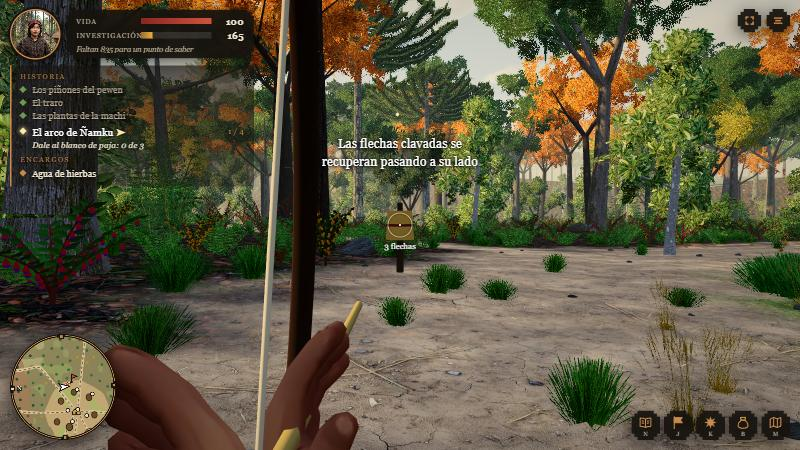
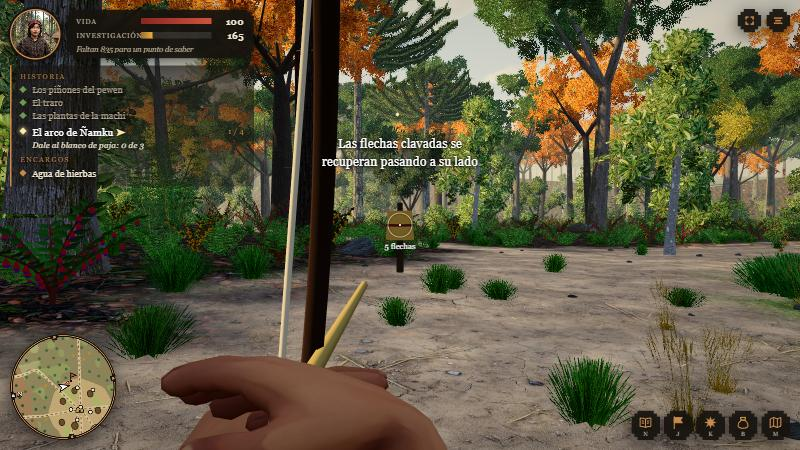
Arco: el botón izquierdo tensa siempre que se mantiene, y las manos agarran
- En partidas guardadas antes de que el arco se pudiera guardar, viene ya en la mano; si está guardado, el botón derecho avisa cómo sacarlo.
- Si el botón izquierdo se aprieta mientras la mano busca otra flecha, el arco empieza a tensarse apenas puede. Un toque corto suelta una flecha floja.
- Las manos se giran para agarrar: la izquierda cubre la empuñadura y la derecha toma la flecha. El arco va en la palma.
- Subir y bajar el arco pasa de a poco de la postura de llevarlo a la de apuntar.

Changed region(s): [[0.0, 0.0, 0.5625, 1.0]]

diff --git a/src/main.js b/src/main.js
@@ -200,10 +200,10 @@ function lock() { /* ya no se captura el ratón */ }
 const locked = () => false;
 document.body.classList.add('sin-raton'); // deja a la vista la ayuda de cómo girar, hasta que se arrastra por primera vez
 renderer.domElement.addEventListener('mousedown', (e) => { if (state !== 'play') return; dragging = true; document.body.classList.add('girando'); e.preventDefault();
-  if (e.button === 2) { botonDer = true; if (puedeApuntar() && acc.apuntar(true)) captura(); } // el botón derecho apunta
+  if (e.button === 2) { botonDer = true; if (puedeApuntar() && acc.apuntar(true)) captura(); else if (acc.tieneArco && !acc.equipado) hint(`Tienes el arco guardado. Sácalo con ${keyName(opts.keys.arma)} o desde la bolsa.`, 4); } // el botón derecho apunta
   else if (e.button === 0 && acc.equipado && puedeApuntar()) { if (!acc.apunta && acc.apuntar(true)) captura(); salirAp = 0; acc.tensar(true); } }); // el izquierdo, mientras se mantiene, tensa el arco
 renderer.domElement.addEventListener('contextmenu', (e) => e.preventDefault());
-addEventListener('mouseup', (e) => { if (e.button === 0 && acc.apunta) { dispara(); if (!botonDer) salirAp = 0.5; } if (e.button === 2) { botonDer = false; if (acc.tira) salirAp = 0.01; else dejaDeApuntar(); } if (!e.buttons) { dragging = false; document.body.classList.remove('girando'); } });
+addEventListener('mouseup', (e) => { if (e.button === 0) { if (acc.apunta) { dispara(); if (!botonDer) salirAp = 0.5; } acc.tensar(false); } if (e.button === 2) { botonDer = false; if (acc.tira) salirAp = 0.01; else dejaDeApuntar(); } if (!e.buttons) { dragging = false; document.body.classList.remove('girando'); } });
 // ---------- el arco: apuntar y soltar ----------
 // Con el botón derecho apretado Leftraru tensa el arco, la cámara se le pone al hombro y aparece la mira. El ratón queda
 // capturado mientras tanto, para poder girar sin que el puntero se salga de la ventana.
@@ -607,7 +607,7 @@ function updateCamera(dt) {
   // Apuntando con el arco: la cámara se pone sobre el hombro derecho, el que lleva la cuerda atrás, bien cerca (como al
   // levantar un arma en un juego de disparos), y cierra un poco el lente. De tan cerca, el arco se ve adelante, a la izquierda. La mira del centro
   // de la pantalla marca hacia dónde va la flecha.
-  apK = Math.max(0, Math.min(1, apK + (acc.apunta ? dt / 0.22 : -dt / 0.3))); let lente = fov;
+  apK = Math.max(0, Math.min(1, apK + (acc.apunta ? dt / 0.2 : -dt / 0.24))); let lente = fov;
   if (!acc.apunta && cam.pitch < -0.25) cam.pitch += (-0.25 - cam.pitch) * Math.min(1, dt * 6); // al soltar, la cámara vuelve a su altura de siempre
   if (apK > 0) { const ka = ease(apK), t = pp(), cp = Math.cos(cam.pitch), dx = Math.sin(cam.yaw) * cp, dy = Math.sin(cam.pitch), dz = Math.cos(cam.yaw) * cp, rx = Math.cos(cam.yaw), rz = -Math.sin(cam.yaw);
     const ap = V3(t.x + rx * CAM_ARCO[0] + dx * CAM_ARCO[2], t.y + CAM_ARCO[1] + dy * CAM_ARCO[2], t.z + rz * CAM_ARCO[0] + dz * CAM_ARCO[2]); ap.y = Math.max(ap.y, height(ap.x, ap.z) + 0.3);
@@ -810,7 +810,7 @@ if (!ANTIGUO) import('three/examples/jsm/loaders/GLTFLoader.js').then(({ GLTFLoa
   const arcoN = new THREE.Mesh(new THREE.TorusGeometry(0.6, 0.011, 5, 18, Math.PI * 0.5).rotateZ(-Math.PI * 0.25).rotateY(-Math.PI / 2).translate(0, 0, -0.6), new THREE.MeshStandardMaterial({ color: 0x4a3626, roughness: 1 })); arcoN.visible = false; arcoN.castShadow = true; arcoN.rotation.order = 'YXZ'; scene.add(arcoN); boy.sinArco = true;
   const puesta = new THREE.Mesh(new THREE.CylinderGeometry(0.008, 0.008, 0.72, 5).rotateX(Math.PI / 2), new THREE.MeshStandardMaterial({ color: 0xb49a62, roughness: 1 })); puesta.visible = false; scene.add(puesta); // la flecha puesta en el arco, antes de soltarla
   const cuerda = new THREE.Group(), hilo = new THREE.CylinderGeometry(0.0022, 0.0022, 1, 4).rotateX(Math.PI / 2).translate(0, 0, 0.5), hiloM = new THREE.MeshStandardMaterial({ color: 0xd8cfb8, roughness: 1 }); cuerda.add(new THREE.Mesh(hilo, hiloM), new THREE.Mesh(hilo, hiloM)); cuerda.visible = false; scene.add(cuerda); // la cuerda: de una punta del arco a la otra, pasando por donde la lleva la mano
-  cuerpo = { mixer, acciones, H, m, y0: m.position.y, peso: { anda: 0, quieto: 0, corre: 0 }, aire: 0, sienta: 0, atento: 0, junta: 0, tapa: 0, pie: [0, 0], parp: 2, habla: 0, ojos, boca, bocaAlto, arco: arcoN, puesta, cuerda }; window.__g.modelo = m; window.__g.cuerpo = cuerpo;
+  cuerpo = { mixer, acciones, H, m, y0: m.position.y, peso: { anda: 0, quieto: 0, corre: 0 }, aire: 0, sienta: 0, atento: 0, junta: 0, tapa: 0, pie: [0, 0], parp: 2, habla: 0, ojos, boca, bocaAlto, arco: arcoN, puesta, cuerda, palma: { Left: palmaDe(m, H.LeftHand), Right: palmaDe(m, H.RightHand) } }; window.__g.modelo = m; window.__g.cuerpo = cuerpo;
 }, undefined, () => { for (const c of viejo) c.visible = true; }));
 // ---------- la gente de la aldea en 3D ----------
 // Quien tiene modelo 3D lo lleva encima de su cuerpo de siempre, que queda invisible y sigue decidiendo todo: dónde está, qué
@@ -941,25 +941,49 @@ function cuerdaPor(C, p) { // la cuerda pasa por p (o va derecha de punta a punt
   C.arco.updateMatrixWorld(true); const a = C.arco.localToWorld(PA.set(0, TIP, -PANZA)), b = C.arco.localToWorld(PB.set(0, -TIP, -PANZA)), m = p || PC.copy(a).lerp(b, 0.5);
   [a, b].forEach((q, i) => { const t = C.cuerda.children[i]; t.position.copy(q); t.lookAt(m); t.scale.z = q.distanceTo(m); });
 }
+// Las manos de los modelos no tienen dedos que se muevan: son planas, abiertas. Para que parezca que agarran, se las gira:
+// los dedos hacia un lado y la palma hacia otro. palmaDe averigua, una vez, hacia dónde mira la palma en cada mano.
+function palmaDe(m, hueso) { // las manos vienen medio cerradas: la palma mira hacia donde se curvan los dedos (la punta de la mano, respecto de su base)
+  let sk = null; m.traverse((o) => { if (o.isSkinnedMesh && !sk) sk = o; }); const bi = sk && hueso ? sk.skeleton.bones.indexOf(hueso) : -1; if (bi < 0) return V3(0, 0, 1);
+  const P = sk.geometry.attributes.position, I = sk.geometry.attributes.skinIndex, W = sk.geometry.attributes.skinWeight, inv = sk.skeleton.boneInverses[bi], v = V3(), pts = []; let largo = 0;
+  for (let i = 0; i < P.count; i++) { let w = 0; for (let c = 0; c < 4; c++) if (I.getComponent(i, c) === bi) w += W.getComponent(i, c); if (w < 0.6) continue; v.fromBufferAttribute(P, i).applyMatrix4(sk.bindMatrix).applyMatrix4(inv); pts.push(v.x, v.y, v.z); largo = Math.max(largo, v.y); }
+  const punta = [0, 0, 0], base = [0, 0, 0]; for (let i = 0; i < pts.length; i += 3) { const q = pts[i + 1] > largo * 0.7 ? punta : pts[i + 1] < largo * 0.38 ? base : null; if (q) { q[0] += pts[i]; q[1] += pts[i + 2]; q[2]++; } }
+  if (!punta[2] || !base[2]) return V3(0, 0, 1); const nl = V3(punta[0] / punta[2] - base[0] / base[2], 0, punta[1] / punta[2] - base[1] / base[2]); return nl.lengthSq() > 1e-6 ? nl.normalize() : V3(0, 0, 1);
+}
+const MB = new THREE.Matrix4(), MC = new THREE.Matrix4(), VX = V3(), VY = V3(), VZ = V3(), EU = new THREE.Euler(0, 0, 0, 'YXZ'), QG = new THREE.Quaternion(), PBW = V3(), VAD = V3(), VDE = V3(), VAR = V3();
+function orientaMano(hueso, nl, dedos, palma, k) { // gira la mano para que los dedos vayan hacia «dedos» y la palma mire hacia «palma» (direcciones del mundo); k: cuánto
+  if (!hueso || k <= 0) return; const F = VY.copy(dedos).normalize(), Pm = VZ.copy(palma).addScaledVector(F, -palma.dot(F)).normalize(), X = VX.crossVectors(F, Pm);
+  MB.makeBasis(X, F, Pm); MC.makeBasis(PE.set(0, 1, 0).cross(nl).normalize(), PF.set(0, 1, 0), nl).transpose(); MB.multiply(MC); // de la mano al mundo
+  QR.setFromRotationMatrix(MB); hueso.parent.updateWorldMatrix(true, false); QB.copy(hueso.parent.getWorldQuaternion(QA)).invert().multiply(QR); hueso.quaternion.slerp(QB, Math.min(1, k)); hueso.updateMatrixWorld(true);
+}
 function armaArco(dt, f, h) {
-  const C = cuerpo, H = C.H, eq = acc.equipado && boy.g.visible && state !== 'title', ap = eq && acc.apunta && apK > 0.2;
-  C.arco.visible = C.cuerda.visible = eq; C.puesta.visible = false; H.Head.scale.setScalar(apK > 0.2 ? 0.001 : 1); // apuntando, la cámara va donde están sus ojos: la cabeza no se dibuja
+  const C = cuerpo, H = C.H, eq = acc.equipado && boy.g.visible && state !== 'title', ka = eq ? suave(0.12, 1, apK) : 0; // ka: cuánto están las manos en la postura de apuntar (entra y sale de a poco)
+  C.arco.visible = C.cuerda.visible = eq; C.puesta.visible = false; H.Head.scale.setScalar(apK > 0.05 ? 0.001 : 1); // apuntando, la cámara va donde están sus ojos: la cabeza no se dibuja
   if (!eq) return;
-  if (!ap) { // en la mano, al costado: el brazo izquierdo no se balancea, lleva el arco
-    if (!(h && h.tipo === 'labrar') && !acc.sitting && !rueda) { const fx = Math.sin(f), fz = Math.cos(f); apunta(H.LeftArm, fx * 0.2 + fz * 0.16, -0.95, fz * 0.2 - fx * 0.16, 0.9); apunta(H.LeftForeArm, fx * 0.62 + fz * 0.04, -0.78, fz * 0.62 - fx * 0.04, 0.9); }
-    H.LeftHand.getWorldPosition(C.arco.position); C.arco.rotation.set(1.0, f, 0); C.arco.scale.set(1, 1, 1); cuerdaPor(C, null); return; }
+  const fx = Math.sin(f), fz = Math.cos(f);
+  if (ka < 1 && !(h && h.tipo === 'labrar') && !acc.sitting && !rueda) { apunta(H.LeftArm, fx * 0.2 + fz * 0.16, -0.95, fz * 0.2 - fx * 0.16, 0.9 * (1 - ka)); apunta(H.LeftForeArm, fx * 0.62 + fz * 0.04, -0.78, fz * 0.62 - fx * 0.04, 0.9 * (1 - ka)); } // en la mano, al costado: el brazo izquierdo no se balancea, lleva el arco
+  C.m.updateMatrixWorld(true);
+  if (ka <= 0) { H.LeftHand.getWorldPosition(C.arco.position).addScaledVector(VA.set(0, 1, 0).applyQuaternion(H.LeftHand.getWorldQuaternion(QD)), 0.07); C.arco.rotation.set(1.0, f, 0); C.arco.scale.set(1, 1, 1); cuerdaPor(C, null); return; } // el arco va en la palma, no en la muñeca
   // apuntando: todo se mide desde los ojos (donde está la cámara) y hacia donde apunta la mira
   const cp = Math.cos(cam.pitch), ax = -Math.sin(cam.yaw) * cp, ay = -Math.sin(cam.pitch), az = -Math.cos(cam.yaw) * cp, rx = Math.cos(cam.yaw), rz = -Math.sin(cam.yaw), ux = -rz * ay, uy = rz * ax - rx * az, uz = rx * ay; // adelante, a la derecha y arriba
   const t = pp(), ex = t.x + rx * CAM_ARCO[0] - ax * CAM_ARCO[2], ey = t.y + CAM_ARCO[1] - ay * CAM_ARCO[2], ez = t.z + rz * CAM_ARCO[0] - az * CAM_ARCO[2]; // los ojos
   const en = (ad, de, ar, o) => o.set(ex + ax * ad + rx * de + ux * ar, ey + ay * ad + uy * ar, ez + az * ad + rz * de + uz * ar); // un punto a tanto adelante, a la derecha y arriba de los ojos
-  const c = suave(0, 1, acc.tensa), rec = acc.recarga, hay = acc.ctx().tengo('flecha') > 0, puestaYa = hay && !acc.vuela && rec < 0.45;
-  C.m.updateMatrixWorld(true);
-  ikBrazo(H.LeftArm, H.LeftForeArm, H.LeftHand, en(0.4, -0.11, -0.235 + retro * 0.03, PW), VA.set(-rx * 0.5, -0.8, -rz * 0.5), 1); // la mano del arco, adelante y a la izquierda
-  en(0.46, -0.105, -0.215 + retro * 0.03, C.arco.position); C.arco.rotation.set(cam.pitch, cam.yaw + Math.PI, 0.1); C.arco.scale.set(1, 1 - 0.06 * c, 1 + 0.5 * c); // al tensarlo, las puntas se vienen hacia atrás
-  const D = PANZA + (0.42 - PANZA) * c; en(0.46 - D, -0.085, -0.165 + retro * 0.03, PN); // dónde va la cuerda con la flecha
+  const c = suave(0, 1, acc.tensa), rec = acc.recarga, hay = acc.ctx().tengo('flecha') > 0, puestaYa = ka > 0.7 && hay && !acc.vuela && rec < 0.45, sube = retro * 0.03;
+  VAD.set(ax, ay, az); VDE.set(rx, 0, rz); VAR.set(ux, uy, uz);
+  // la mano izquierda agarra el arco: la muñeca queda a la izquierda de la empuñadura y los dedos la cruzan por delante, así que
+  // desde los ojos se ve el dorso de la mano tapando la empuñadura
+  en(0.435, -0.165, -0.18 + sube, PW); ikBrazo(H.LeftArm, H.LeftForeArm, H.LeftHand, PW, VA.set(-rx * 0.5, -0.8, -rz * 0.5), ka);
+  orientaMano(H.LeftHand, C.palma.Left, VA.copy(VDE).addScaledVector(VAR, 0.3).addScaledVector(VAD, 0.15), VAD, ka);
+  en(0.47, -0.09, -0.17 + sube, PBW); EU.set(cam.pitch, cam.yaw + Math.PI, 0.1); QG.setFromEuler(EU);
+  if (ka < 1) { H.LeftHand.getWorldPosition(C.arco.position).addScaledVector(VA.set(0, 1, 0).applyQuaternion(H.LeftHand.getWorldQuaternion(QD)), 0.07).lerp(PBW, ka); EU.set(1.0, f, 0); C.arco.quaternion.setFromEuler(EU).slerp(QG, ka); } // mientras sube o baja el arco, va de la postura de llevarlo a la de apuntar
+  else { C.arco.position.copy(PBW); C.arco.quaternion.copy(QG); }
+  C.arco.scale.set(1, 1 - 0.06 * c, 1 + 0.5 * c); // al tensarlo, las puntas se vienen hacia atrás
+  const D = PANZA + (0.42 - PANZA) * c; en(0.47 - D, -0.075, -0.125 + sube, PN); // dónde va la cuerda con la flecha
   const baja = suave(0.35, 1, rec); // después de soltar, la mano derecha baja a buscar otra flecha y vuelve a la cuerda
-  en(0.46 - D - 0.05 - baja * 0.1, -0.06 + baja * 0.3, -0.19 - baja * 0.35, PW); ikBrazo(H.RightArm, H.RightForeArm, H.RightHand, PW, VA.set(rx * 0.55 - ax * 0.3, -0.6, rz * 0.55 - az * 0.3), 1);
-  cuerdaPor(C, puestaYa || acc.tira ? PN : null);
+  // la mano derecha toma la cuerda: la muñeca a la derecha, los dedos hacia la cuerda
+  en(0.47 - D - 0.01 - baja * 0.1, 0.0 + baja * 0.3, -0.118 - baja * 0.35, PW); ikBrazo(H.RightArm, H.RightForeArm, H.RightHand, PW, VA.set(rx * 0.55 - ax * 0.3, -0.6, rz * 0.55 - az * 0.3), ka);
+  orientaMano(H.RightHand, C.palma.Right, VA.copy(VDE).negate().addScaledVector(VAD, 0.25).addScaledVector(VAR, 0.1), VAD, ka);
+  cuerdaPor(C, puestaYa || (acc.tira && ka > 0.7) ? PN : null);
   if (puestaYa) { C.puesta.visible = true; C.puesta.position.set(PN.x + ax * 0.36, PN.y + ay * 0.36, PN.z + az * 0.36); C.puesta.lookAt(PN.x + ax * 2, PN.y + ay * 2, PN.z + az * 2); }
 }
 // La gente en 3D, cuadro a cuadro: después de que su cuerpo de siempre tomó la postura de este momento, el modelo la copia.

diff --git a/src/acciones.js b/src/acciones.js
@@ -269,7 +269,8 @@ export function createActions({ world, ui, snd, scene, hint, speak, murmur, ripp
     if ((S.vida ?? 100) >= 100) { hint('Ahora no te hace falta: guárdala para cuando la necesites.', 4); return false; }
     take('remedio', 1); sanar(60); snd.play('paso-agua-2', 0.4); hint('Tibia y amarga. El cuerpo se te afirma de a poco.', 5); return true;
   }
-  ui.cosas = COSAS; ui.recetas = recetas; ui.preparar = preparar; ui.usar = usar; COSAS.arco.usar = S.eq ? 'Guardar' : 'Equipar';
+  ui.cosas = COSAS; ui.recetas = recetas; ui.preparar = preparar; ui.usar = usar; if (S.eq === undefined && f.cz >= 2 && have('arco') > 0) S.eq = true; // una partida guardada antes de que el arco se pudiera guardar: lo trae en la mano
+  COSAS.arco.usar = S.eq ? 'Guardar' : 'Equipar';
 
   // ---------- plumas: al pie de los árboles donde se posan las aves ----------
   const plumas = [];
@@ -293,9 +294,9 @@ export function createActions({ world, ui, snd, scene, hint, speak, murmur, ripp
   const flechaG = new THREE.CylinderGeometry(0.009, 0.009, 0.72, 5), flechaMat = new THREE.MeshStandardMaterial({ color: 0x9a8458, roughness: 1 });
   const flechaM = new THREE.Mesh(flechaG, flechaMat); flechaM.visible = false; flechaM.castShadow = true; scene.add(flechaM); // la que va volando
   const N_CLAV = 8, clavM = new THREE.InstancedMesh(flechaG, flechaMat, N_CLAV), clav = [], clavO = new THREE.Object3D(); clavM.count = 0; clavM.castShadow = true; clavM.frustumCulled = false; scene.add(clavM); // las que quedaron clavadas: una sola malla
-  const UP = new THREE.Vector3(0, 1, 0), VF = new THREE.Vector3(), P0 = new THREE.Vector3(), TENSA = 0.75, GRAV = 9.8, V_MIN = 15, V_MAX = 58, CARGA = 1.05, RECARGA = 0.55, TOPE_FL = 12, giro = (d) => Math.atan2(Math.sin(d), Math.cos(d));
+  const UP = new THREE.Vector3(0, 1, 0), VF = new THREE.Vector3(), P0 = new THREE.Vector3(), TENSA = 0.75, GRAV = 9.8, V_MIN = 15, V_MAX = 58, CARGA = 1.0, RECARGA = 0.4, TOPE_FL = 12, giro = (d) => Math.atan2(Math.sin(d), Math.cos(d));
   const TACTIL = typeof matchMedia === 'function' && matchMedia('(hover: none)').matches; // sin ratón, la flecha se tira con la tecla de acción y apunta sola
-  const punt = { on: false, t: 0, carga: 0, tira: false, pausa: 0 }; let vuelo = null; // punt: está apuntando, y cuánto lleva tensando; vuelo: la flecha en el aire { p, v, de, t }
+  const punt = { on: false, t: 0, carga: 0, tira: false, quiere: false, pausa: 0 }; let vuelo = null; // quiere: el botón de tensar sigue apretado; tira: está tensando // punt: está apuntando, y cuánto lleva tensando; vuelo: la flecha en el aire { p, v, de, t }
   const puduCerca = (p, r) => { let b = null; for (const q of world.life.quads) { if (q.kind !== 'pudu' || q.caido || q.fuera || (q.g.scale.x || 1) < 0.8) continue; const d = d2(p, q.x, q.z); if (d < r && (!b || d < b.d)) b = { d, q }; } return b; }; // los grandes: a las crías no se les tira
   const hayCaido = () => world.life.quads.some((q) => q.caido && !q.fuera);
   const pintaClav = () => { clavM.count = clav.length; clav.forEach((c, i) => { clavO.position.copy(c.p); clavO.quaternion.copy(c.q); clavO.updateMatrix(); clavM.setMatrixAt(i, clavO.matrix); }); clavM.instanceMatrix.needsUpdate = true; };
@@ -304,7 +305,7 @@ export function createActions({ world, ui, snd, scene, hint, speak, murmur, ripp
   function apuntar(si) {
     if (si && !puedeApuntar()) return false;
     if (si && !punt.on) { punt.t = 0; if (f.cz === 3 && !hayCaido() && puduCerca(here, 22)) hint('«Dueño de este monte: es para mi gente.»', 3); }
-    punt.on = !!si; if (!punt.on) { punt.carga = 0; punt.tira = false; } return punt.on;
+    punt.on = !!si; if (!punt.on) { punt.carga = 0; punt.tira = false; punt.quiere = false; } return punt.on;
   }
   // El arco se saca y se guarda (desde la bolsa o con su tecla). Solo con el arco en la mano se puede apuntar.
   function equipar(si) {
@@ -313,11 +314,11 @@ export function createActions({ world, ui, snd, scene, hint, speak, murmur, ripp
     snd.play('ui-clic', 0.4, S.eq ? 1.1 : 0.8); hint(S.eq ? `Arco en la mano. Botón derecho para apuntar; mantén el izquierdo para tensar y suéltalo para tirar. ${tecla('flecha')} hace una flecha.` : 'Guardaste el arco.', S.eq ? 7 : 3); return true;
   }
   // Tensar: mientras se mantiene apretado el botón, el arco se va cargando; al soltarlo, sale la flecha con esa fuerza.
-  function tensar(si) {
-    if (!si) { punt.tira = false; return false; }
-    if (!punt.on || vuelo || punt.pausa > 0) return false;
-    if (!have('flecha')) { hint(clav.length ? 'No te quedan flechas en la bolsa. Recoge las que quedaron clavadas.' : `No te quedan flechas. Con una caña de quila y una pluma haces otra: pulsa ${tecla('flecha')}.`, 6); return false; }
-    punt.tira = true; return true;
+  const empiezaATensar = () => { if (!punt.on || !punt.quiere || punt.tira || vuelo || punt.pausa > 0 || !have('flecha')) return false; punt.tira = true; return true; };
+  function tensar(si) { // si: el botón sigue apretado. Si justo entonces no se puede (va una flecha en el aire, la mano busca otra), tensa apenas pueda
+    punt.quiere = !!si; if (!si) { punt.tira = false; return false; }
+    if (punt.on && !have('flecha')) hint(clav.length ? 'No te quedan flechas en la bolsa. Recoge las que quedaron clavadas.' : `No te quedan flechas. Con una caña de quila y una pluma haces otra: pulsa ${tecla('flecha')}.`, 6);
+    return empiezaATensar();
   }
   // Hacer una flecha, donde sea: una caña de quila y una pluma. Ñamku lo enseña en la misión 4.
   function hacerFlecha() {
@@ -328,7 +329,7 @@ export function createActions({ world, ui, snd, scene, hint, speak, murmur, ripp
   }
   function soltar(desde, hacia) { // desde: de dónde sale la flecha (el arco); hacia: el punto del mundo que marca la mira
     if (!punt.on || vuelo || !punt.tira) return false; const k = punt.carga; punt.tira = false;
-    if (k < 0.12) { punt.carga = 0; return false; } // apenas la tocó: no sale
+    if (k < 0.04) { punt.carga = 0; return false; } // ni alcanzó a tomar la cuerda: no sale (un toque corto sí la suelta, floja)
     if (!have('flecha')) { punt.carga = 0; return false; }
     const d = new THREE.Vector3().subVectors(hacia, desde), dh = Math.hypot(d.x, d.z), v0 = V_MIN + (V_MAX - V_MIN) * k; // mientras más tenso, más rápido sale
     if (dh > 0.01) for (const a of world.life.actors) { const ax = a.x - desde.x, az = a.z - desde.z, al = (ax * d.x + az * d.z) / dh; if (al > 0.5 && al < 35 && Math.abs(ax * d.z - az * d.x) / dh < 0.9) { hint('Hay gente adelante. El arco no se apunta hacia las personas.', 4); return false; } }
@@ -362,7 +363,7 @@ export function createActions({ world, ui, snd, scene, hint, speak, murmur, ripp
   }
   function updateArco(dt, p) {
     punt.pausa = Math.max(0, punt.pausa - dt);
-    if (punt.on) { if (!puedeApuntar()) apuntar(false); else { punt.t += dt; punt.carga = punt.tira ? Math.min(1, punt.carga + dt / CARGA) : Math.max(0, punt.carga - dt * 3); } }
+    if (punt.on) { if (!puedeApuntar()) apuntar(false); else { punt.t += dt; empiezaATensar(); punt.carga = punt.tira ? Math.min(1, punt.carga + dt / CARGA) : Math.max(0, punt.carga - dt * 3); } }
     if (vuelo) { const a = vuelo; a.t += dt; let rest = dt;
       while (rest > 1e-5 && vuelo === a) { const h = Math.min(rest, 0.01); rest -= h; P0.copy(a.p); a.v.y -= GRAV * h; a.p.addScaledVector(a.v, h); // a pasos cortos, para que no atraviese nada
         if (blanco.visible && toca(P0, a.p, BLANCO.x, BLANCO.y + 1.02, BLANCO.z, 0.37)) { llega('blanco'); break; }
@@ -492,7 +493,7 @@ export function createActions({ world, ui, snd, scene, hint, speak, murmur, ripp
   }
 
   return { scan, talk, wants, update, pose, stand, madreCocina, f, pins: S.pin, pin(i) { if (!S.pin.includes(i)) { S.pin.push(i); save(); } },
-    get sitting() { return !!sit; }, get busy() { return (!!sit && sit.st !== 'on') || !!hace; }, get abrigado() { return alFuego(); }, get hace() { return hace; }, get tensa() { return punt.on ? punt.carga : 0; }, get equipado() { return !!S.eq && f.cz >= 2 && have('arco') > 0; }, get recarga() { return punt.pausa / RECARGA; }, get tira() { return punt.tira; }, equipar, tensar, hacerFlecha, get apunta() { return punt.on; }, get vuela() { return !!vuelo; }, get clavadas() { return clav.length; }, apuntar, soltar, mira, // hace: el gesto en curso; tensa: cuánto lleva tensado el arco // abrigado: junto a un fuego // busy: está sentándose o levantándose
+    get sitting() { return !!sit; }, get busy() { return (!!sit && sit.st !== 'on') || !!hace; }, get abrigado() { return alFuego(); }, get hace() { return hace; }, get tensa() { return punt.on ? punt.carga : 0; }, get equipado() { return !!S.eq && f.cz >= 2 && have('arco') > 0; }, get tieneArco() { return f.cz >= 2 && have('arco') > 0; }, get recarga() { return punt.pausa / RECARGA; }, get tira() { return punt.tira; }, equipar, tensar, hacerFlecha, get apunta() { return punt.on; }, get vuela() { return !!vuelo; }, get clavadas() { return clav.length; }, apuntar, soltar, mira, // hace: el gesto en curso; tensa: cuánto lleva tensado el arco // abrigado: junto a un fuego // busy: está sentándose o levantándose
     ctx: () => ({ f, tengo: (id) => have(id), hierbas: Math.min(2, have('canelo')) + Math.min(1, have('quillay')) + Math.min(2, have('maqui')), llevo: { canelo: Math.min(2, have('canelo')), quillay: Math.min(1, have('quillay')), maqui: Math.min(2, have('maqui')) } }),
     // Dónde ir a buscar lo que falta para las misiones abiertas: los árboles más cercanos de cada especie y las matas de maqui del claro.
     goals(p) {

diff --git a/docs/acto-1.md b/docs/acto-1.md
@@ -24,7 +24,7 @@ Guion de trabajo (borrador 3). Un acto de **inmersión**: Leftraru es un niño q
 - **Conversar de cerca:** al hablar con alguien, la cámara se acerca y deja a los dos en primer plano, vistos en ángulo por sobre el hombro de Leftraru. Se vuelven el uno hacia el otro, se miran a la cara, y quien estaba trabajando deja lo suyo mientras habla. Al terminar, la cámara vuelve a su lugar, a la espalda de Leftraru.
 - **La subida al Treng Treng:** el cerro es más ancho y tendido, y el sendero ya no va derecho a la cima: lo rodea por el poniente y el norte, tallado en la ladera, con una pendiente pareja de unos 13 grados (antes llegaba a 40) y unos 150 pasos de largo. Llega arriba por el oriente, donde se para Curiñancu.
 - **Recolectar y preparar:** lo que alguien le enseñó a preparar se puede juntar siempre, pero de a poco (hasta tres de cada cosa). Se prepara junto al fogón, desde la bolsa. Hoy son dos cosas: el **agua de hierbas** (maqui y boldo; devuelve vida) y las **flechas** (una caña de quila y una pluma). El agua de hierbas no es un lawen: los remedios siguen siendo de la machi.
-- **El arco:** se saca y se guarda desde la bolsa (botón «Equipar») o con su tecla (Q); guardado no se ve ni se puede usar, y en la mano Leftraru lo lleva en la izquierda mientras camina y corre. Con el botón derecho del ratón se apunta: la cámara se pone donde van sus ojos, sobre el hombro derecho, y adelante se ven la mano izquierda con el arco, la cuerda y la flecha puesta, con una mira al centro (su cabeza no se dibuja mientras tanto). Manteniendo apretado el botón izquierdo el arco se tensa: la cuerda y la flecha se van hacia atrás, las puntas del arco se doblan, el lente cierra un poco y la mira se achica; en un segundo llega al máximo. Al soltar el botón sale la flecha, más rápida mientras más tenso estaba (de 15 a 58 metros por segundo), el arco da un pequeño golpe y la mano baja a buscar otra flecha. También se puede tirar solo con el botón izquierdo, sin apuntar antes. La flecha vuela de verdad, cae con su peso y se clava donde pega. Cada tiro gasta una flecha de la bolsa; las clavadas se recuperan pasando a su lado. Las flechas las hace Leftraru mismo, donde esté, con una caña de quila y una pluma: con la tecla G o desde la bolsa (hasta doce). Al blanco de paja se le tira siempre; un pudú cae solo durante la caza de la misión 4; a las crías nunca, y la flecha no sale si hay una persona adelante. En pantallas táctiles, sin ratón, se tira con la tecla de acción y la flecha apunta sola.
+- **El arco:** se saca y se guarda desde la bolsa (botón «Equipar») o con su tecla (Q); guardado no se ve ni se puede usar, y en la mano Leftraru lo lleva en la izquierda mientras camina y corre. Con el botón derecho del ratón se apunta: la cámara se pone donde van sus ojos, sobre el hombro derecho, y adelante se ven la mano izquierda con el arco, la cuerda y la flecha puesta, con una mira al centro (su cabeza no se dibuja mientras tanto). Manteniendo apretado el botón izquierdo el arco se tensa: la cuerda y la flecha se van hacia atrás, las puntas del arco se doblan, el lente cierra un poco y la mira se achica; en un segundo llega al máximo. Al soltar el botón sale la flecha, más rápida mientras más tenso estaba (de 15 a 58 metros por segundo), el arco da un pequeño golpe y la mano baja a buscar otra flecha. También se puede tirar solo con el botón izquierdo, sin apuntar antes. Un toque corto suelta una flecha floja. Si el botón se aprieta mientras la mano todavía busca otra flecha, el arco empieza a tensarse apenas puede. En una partida guardada desde antes de que el arco se pudiera guardar, el arco viene ya en la mano. La flecha vuela de verdad, cae con su peso y se clava donde pega. Cada tiro gasta una flecha de la bolsa; las clavadas se recuperan pasando a su lado. Las flechas las hace Leftraru mismo, donde esté, con una caña de quila y una pluma: con la tecla G o desde la bolsa (hasta doce). Al blanco de paja se le tira siempre; un pudú cae solo durante la caza de la misión 4; a las crías nunca, y la flecha no sale si hay una persona adelante. En pantallas táctiles, sin ratón, se tira con la tecla de acción y la flecha apunta sola.
 - **Rodar:** con la tecla Control, Leftraru da una vuelta por el suelo hacia donde va (o, quieto, hacia donde mira). Ojo: en el navegador, Control junto con W cierra la pestaña y eso no se puede evitar desde el juego, salvo en pantalla completa; la tecla se puede cambiar en Opciones.
 - **La aldea se llama Pewenko** («agua de los pewenes»; nombre puesto por nosotros, por confirmar). Tiene a la vista los oficios de todos los días: cueros estirados en bastidores, las armas (lanzas de coligüe, mazas, hondas y un arco), los instrumentos de las fiestas (trutruka, pifilkas y wadas), la piedra de moler y el lugar de la greda, con gente trabajando en cada uno, y algunos árboles entre las casas. Cueros, armas e instrumentos se observan y tienen ficha.
 - **La figura tallada del bosque viejo:** a pocos pasos del árbol abuelo. Al observarla, la cámara la rodea y se cuenta lo que la familia dice de ella: la promesa de tomar solo lo necesario. No es un «tótem» (eso no existe en la cultura mapuche) ni un chemamüll, que acompaña a los muertos: es invento nuestro, contado como memoria de esta familia. Por confirmar con quien revise la cultura.
@@ -231,7 +231,7 @@ Todavía no existían aquí caballos, ovejas, trigo, hierro ni platería. Los an
 - **Mirada:** suelto, la cabeza sigue a la cámara; conversando, queda quieta y de frente a la cara de quien le habla.
 - **Luz:** recibe el mismo sol, cielo, sombras y fogón que el resto del mundo, y da sombra.
 
-**Con el arco**, las manos se ponen a mano (sin movimiento del catálogo): al llevarlo, el brazo izquierdo lo sostiene al costado; al apuntar, las dos manos van a puntos medidos desde los ojos. **Rodar** sí es un movimiento del catálogo (*Roll_Dodge*), del que se usa la vuelta y cuánto baja la cadera; el avance lo pone el juego.
+**Con el arco**, las manos se ponen a mano (sin movimiento del catálogo): al llevarlo, el brazo izquierdo lo sostiene al costado; al apuntar, las dos manos van a puntos medidos desde los ojos y se giran para que parezca que agarran (las manos del modelo no tienen dedos que se muevan: vienen medio cerradas, así que se pone el dorso hacia la cámara y los dedos cruzando por delante de la empuñadura o hacia la cuerda). **Rodar** sí es un movimiento del catálogo (*Roll_Dodge*), del que se usa la vuelta y cuánto baja la cadera; el avance lo pone el juego.
 
 **Los demás personajes** se harán igual: primero un boceto en kie.ai (`node tools/kie-personaje.mjs millaray`), en el mismo estilo pintado, y después el 3D. **Millaray ya está en 3D en el juego** (boceto 1, `millaray-1.png`; el modelo es `public/assets/modelos/millaray.glb`, unos 30.000 triángulos, con esqueleto y su movimiento de reposo). Va encima de su cuerpo de siempre, que queda invisible y sigue decidiendo todo: las manos del modelo van a donde están las manos de ese cuerpo, la cabeza mira hacia donde mira la otra y el tronco se inclina igual. Por eso teje, revuelve la olla (con el palo en la mano), entrega, recibe y acaricia sin haber tenido que rehacer nada. Pestañea y mueve los labios cuando habla. Ahora teje de frente al telar, a un paso de la tela, y no sin parar: teje un rato, descansa mirando la tela, la alisa con una mano y vuelve a tejer. Al conversar deja las manos quietas. Su dibujo traía luces y brillos pintados (venía de una imagen con luz de estudio); en el juego se apagan, para que la luz que se le vea sea la del lugar. Además de su reposo tiene tres movimientos del catálogo, en archivos chicos (`millaray-habla.json`, `millaray-escucha.json`, `millaray-camina.json`): mueve las manos mientras dice una frase, escucha con atención cuando calla y camina. Los dos primeros van suavizados (al 60 % y al 35 %), para que no se balancee. Después de recibir los piñones deja la olla y vuelve caminando al telar, rodeando el fogón por entre los troncos. Los otros personajes se pueden pasar a 3D con el mismo método: agregarlos a `GENTE3D` en `src/main.js`, con las medidas de sus ojos y su boca.
 
